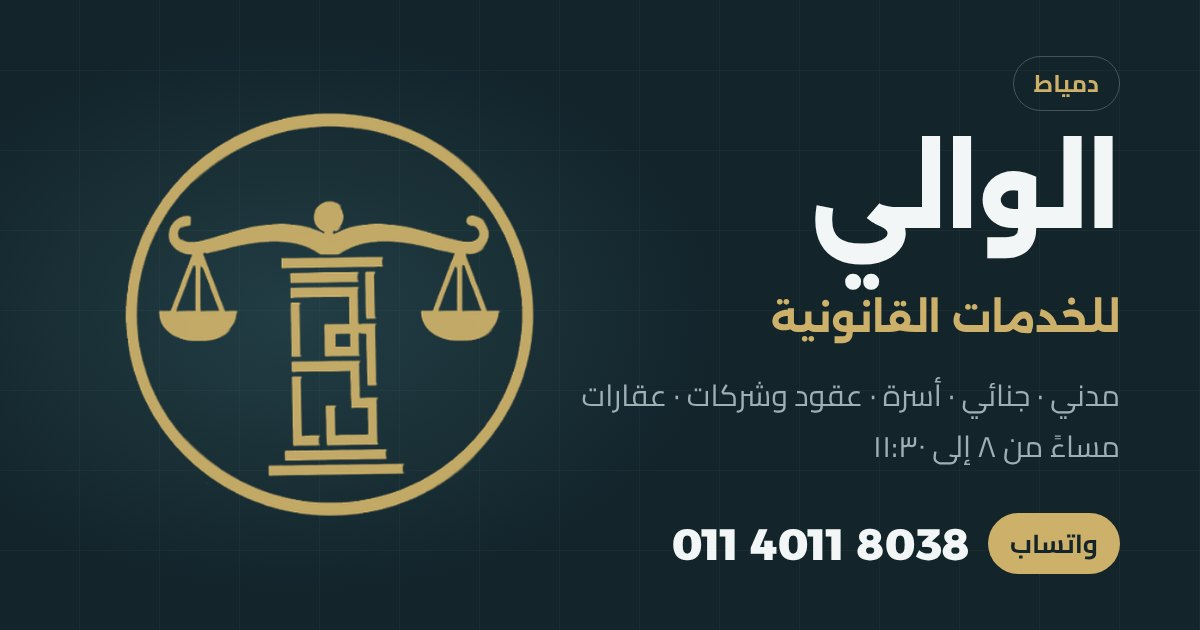
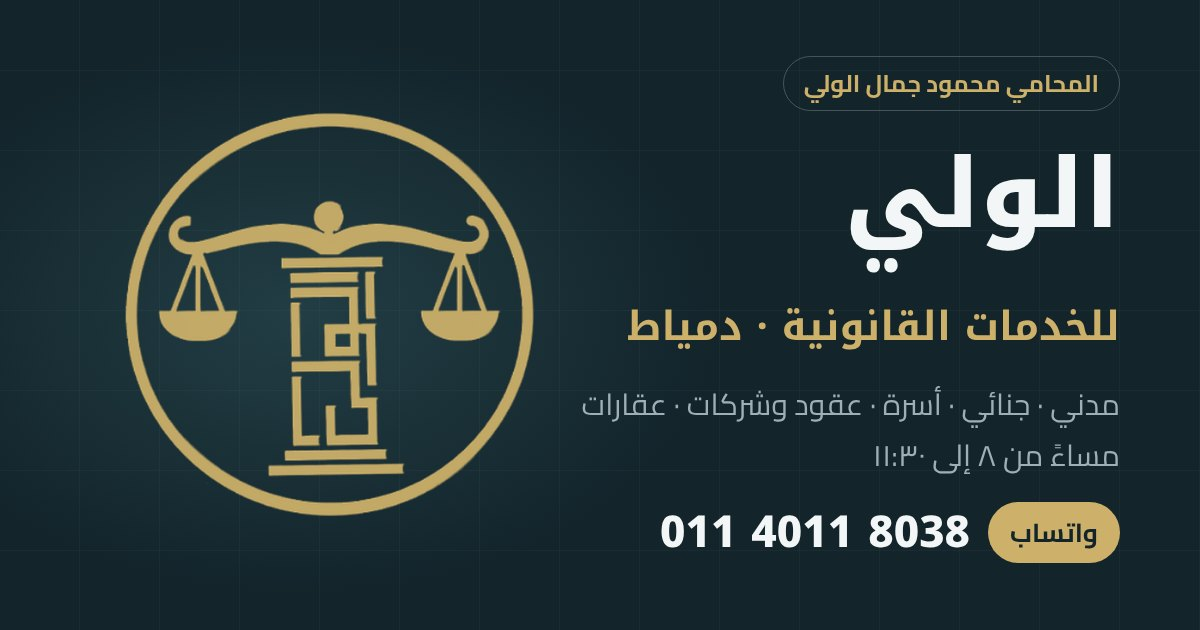
Correct office name to الولي, add the lawyer's name, change heading font
Use Noto Kufi Arabic for headings, add محمود جمال الولي to the hero,
about, footer, FAQ, structured data (Person) and llms.txt, and regenerate
the share image.

Claude-Session: https://claude.ai/code/session_015ErQkvhXxJamDgkeYBpLrU

diff --git a/index.html b/index.html
@@ -3,13 +3,13 @@
 <head>
   <meta charset="utf-8">
   <meta name="viewport" content="width=device-width, initial-scale=1">
-  <title>الوالي للخدمات القانونية | محامي في دمياط</title>
-  <meta name="description" content="الوالي للخدمات القانونية في دمياط (الشعراء بجانب مدرسة سعد الأسمر): قضايا مدنية وجنائية وأسرة وعقود وشركات وعقارات. الاستقبال مساءً من ٨ إلى ١١:٣٠. تواصل واتساب 01140118038.">
+  <title>المحامي محمود جمال الولي | الولي للخدمات القانونية في دمياط</title>
+  <meta name="description" content="المحامي محمود جمال الولي، الولي للخدمات القانونية في دمياط (الشعراء بجانب مدرسة سعد الأسمر): قضايا مدنية وجنائية وأسرة وعقود وشركات وعقارات. الاستقبال مساءً من ٨ إلى ١١:٣٠. تواصل واتساب 01140118038.">
   <meta name="robots" content="index, follow, max-image-preview:large, max-snippet:-1, max-video-preview:-1">
   <link rel="canonical" href="https://elwali.aldiwan.io/">
   <link rel="alternate" hreflang="ar-EG" href="https://elwali.aldiwan.io/">
   <link rel="alternate" hreflang="x-default" href="https://elwali.aldiwan.io/">
-  <meta name="author" content="الوالي للخدمات القانونية">
+  <meta name="author" content="المحامي محمود جمال الولي">
   <meta name="geo.region" content="EG-DT">
   <meta name="geo.placename" content="دمياط">
   <meta name="geo.position" content="31.4026702;31.7944225">
@@ -17,16 +17,16 @@
   <meta name="theme-color" content="#13242b">
   <meta property="og:type" content="website">
   <meta property="og:locale" content="ar_EG">
-  <meta property="og:site_name" content="الوالي للخدمات القانونية">
+  <meta property="og:site_name" content="الولي للخدمات القانونية">
   <meta property="og:url" content="https://elwali.aldiwan.io/">
-  <meta property="og:title" content="الوالي للخدمات القانونية | محامي في دمياط">
+  <meta property="og:title" content="المحامي محمود جمال الولي | الولي للخدمات القانونية في دمياط">
   <meta property="og:description" content="قضايا مدنية وجنائية وأسرة وعقود وشركات وعقارات. الاستقبال مساءً من ٨ إلى ١١:٣٠. دمياط.">
   <meta property="og:image" content="https://elwali.aldiwan.io/assets/og-image.jpg">
   <meta property="og:image:width" content="1200">
   <meta property="og:image:height" content="630">
-  <meta property="og:image:alt" content="الوالي للخدمات القانونية، مكتب محاماة في دمياط">
+  <meta property="og:image:alt" content="الولي للخدمات القانونية، مكتب محاماة في دمياط">
   <meta name="twitter:card" content="summary_large_image">
-  <meta name="twitter:title" content="الوالي للخدمات القانونية | محامي في دمياط">
+  <meta name="twitter:title" content="المحامي محمود جمال الولي | الولي للخدمات القانونية في دمياط">
   <meta name="twitter:description" content="قضايا مدنية وجنائية وأسرة وعقود وشركات وعقارات. الاستقبال مساءً من ٨ إلى ١١:٣٠.">
   <meta name="twitter:image" content="https://elwali.aldiwan.io/assets/og-image.jpg">
   <link rel="icon" type="image/png" href="assets/favicon.png">
@@ -34,7 +34,7 @@
 
   <link rel="preconnect" href="https://fonts.googleapis.com">
   <link rel="preconnect" href="https://fonts.gstatic.com" crossorigin>
-  <link href="https://fonts.googleapis.com/css2?family=Alexandria:wght@500;700;800&family=Cairo:wght@400;600;700&display=swap" rel="stylesheet">
+  <link href="https://fonts.googleapis.com/css2?family=Noto+Kufi+Arabic:wght@500;700;800&family=Cairo:wght@400;600;700&display=swap" rel="stylesheet">
   <link rel="stylesheet" href="css/style.css">
 
   <script type="application/ld+json">
@@ -44,8 +44,10 @@
       {
         "@type": ["LegalService", "Attorney"],
         "@id": "https://elwali.aldiwan.io/#office",
-        "name": "الوالي للخدمات القانونية",
-        "alternateName": ["Elwali for legal services", "الوالي للمحاماة"],
+        "name": "الولي للخدمات القانونية",
+        "alternateName": ["Elwali for legal services", "الولي للمحاماة", "مكتب المحامي محمود جمال الولي"],
+        "founder": { "@id": "https://elwali.aldiwan.io/#lawyer" },
+        "employee": { "@id": "https://elwali.aldiwan.io/#lawyer" },
         "url": "https://elwali.aldiwan.io/",
         "logo": "https://elwali.aldiwan.io/assets/logo.png",
         "image": "https://elwali.aldiwan.io/assets/og-image.jpg",
@@ -81,13 +83,26 @@
           ]
         }
       },
-      { "@type": "WebSite", "@id": "https://elwali.aldiwan.io/#website", "url": "https://elwali.aldiwan.io/", "name": "الوالي للخدمات القانونية", "inLanguage": "ar", "publisher": { "@id": "https://elwali.aldiwan.io/#office" } },
-      { "@type": "WebPage", "@id": "https://elwali.aldiwan.io/#webpage", "url": "https://elwali.aldiwan.io/", "name": "الوالي للخدمات القانونية | محامي في دمياط", "inLanguage": "ar", "isPartOf": { "@id": "https://elwali.aldiwan.io/#website" }, "about": { "@id": "https://elwali.aldiwan.io/#office" }, "dateModified": "2026-10-13" },
+      {
+        "@type": "Person",
+        "@id": "https://elwali.aldiwan.io/#lawyer",
+        "name": "محمود جمال الولي",
+        "alternateName": ["المحامي محمود جمال الولي", "Mahmoud Gamal Elwali"],
+        "jobTitle": "محامٍ",
+        "worksFor": { "@id": "https://elwali.aldiwan.io/#office" },
+        "workLocation": { "@type": "Place", "name": "دمياط" },
+        "knowsAbout": ["القضايا المدنية", "القضايا الجنائية", "الأحوال الشخصية وقضايا الأسرة", "العقود وتأسيس الشركات", "القضايا العقارية والإيجارات"],
+        "url": "https://elwali.aldiwan.io/",
+        "image": "https://elwali.aldiwan.io/assets/hero.webp"
+      },
+      { "@type": "WebSite", "@id": "https://elwali.aldiwan.io/#website", "url": "https://elwali.aldiwan.io/", "name": "الولي للخدمات القانونية", "inLanguage": "ar", "publisher": { "@id": "https://elwali.aldiwan.io/#office" } },
+      { "@type": "WebPage", "@id": "https://elwali.aldiwan.io/#webpage", "url": "https://elwali.aldiwan.io/", "name": "الولي للخدمات القانونية | محامي في دمياط", "inLanguage": "ar", "isPartOf": { "@id": "https://elwali.aldiwan.io/#website" }, "about": { "@id": "https://elwali.aldiwan.io/#office" }, "dateModified": "2026-10-13" },
       {
         "@type": "FAQPage",
         "@id": "https://elwali.aldiwan.io/#faq",
         "mainEntity": [
-          { "@type": "Question", "name": "أين يقع مكتب الوالي للخدمات القانونية؟", "acceptedAnswer": { "@type": "Answer", "text": "في الشعراء بجانب مدرسة سعد الأسمر، عبده سعد، قسم دمياط، محافظة دمياط. يمكنك فتح الموقع على الخريطة من قسم \"تواصل معنا\"." } },
+          { "@type": "Question", "name": "من هو المحامي محمود جمال الولي؟", "acceptedAnswer": { "@type": "Answer", "text": "محامٍ يعمل من مكتب الولي للخدمات القانونية في دمياط، ويتولى القضايا المدنية والجنائية والأحوال الشخصية والعقود والشركات والقضايا العقارية." } },
+          { "@type": "Question", "name": "أين يقع مكتب الولي للخدمات القانونية؟", "acceptedAnswer": { "@type": "Answer", "text": "في الشعراء بجانب مدرسة سعد الأسمر، عبده سعد، قسم دمياط، محافظة دمياط. يمكنك فتح الموقع على الخريطة من قسم \"تواصل معنا\"." } },
           { "@type": "Question", "name": "ما مواعيد العمل؟", "acceptedAnswer": { "@type": "Answer", "text": "الاستقبال مساءً من ٨:٠٠ إلى ١١:٣٠ أيام السبت والأحد والإثنين والثلاثاء والأربعاء. والمكتب مغلق يومي الخميس والجمعة." } },
           { "@type": "Question", "name": "كيف أحجز استشارة قانونية؟", "acceptedAnswer": { "@type": "Answer", "text": "أرسل رسالة واتساب على الرقم 01140118038 تشرح فيها موقفك باختصار، أو اتصل بالمكتب في مواعيد العمل، وسنحدد معك موعد الاستشارة." } },
           { "@type": "Question", "name": "ما المجالات التي يتناولها المكتب؟", "acceptedAnswer": { "@type": "Answer", "text": "القضايا المدنية، والقضايا الجنائية، والأحوال الشخصية وقضايا الأسرة، وصياغة العقود وتأسيس الشركات، والقضايا العقارية والإيجارات." } },
@@ -104,9 +119,9 @@
 <div class="frame" id="top">
 
   <header class="site-header">
-    <a class="brand" href="#top" aria-label="الوالي للخدمات القانونية">
-      <img src="assets/logo.png" alt="شعار الوالي للخدمات القانونية" width="48" height="48">
-      <span class="brand-text"><strong>الوالي</strong><small>للخدمات القانونية</small></span>
+    <a class="brand" href="#top" aria-label="الولي للخدمات القانونية">
+      <img src="assets/logo.png" alt="شعار الولي للخدمات القانونية" width="48" height="48">
+      <span class="brand-text"><strong>الولي</strong><small>للخدمات القانونية</small></span>
     </a>
     <nav class="nav" id="nav" aria-label="القائمة الرئيسية">
       <a href="#about">من نحن</a>
@@ -128,13 +143,14 @@
 
     <div class="hero-grid">
       <div class="hero-copy">
-        <p class="badge"><svg viewBox="0 0 24 24" aria-hidden="true"><path d="M12 3v18M5 7h14M5 7l-3 7a3.5 3.5 0 0 0 6 0L5 7Zm14 0-3 7a3.5 3.5 0 0 0 6 0l-3-7ZM8 21h8"/></svg>الوالي للخدمات القانونية · دمياط</p>
+        <p class="badge"><svg viewBox="0 0 24 24" aria-hidden="true"><path d="M12 3v18M5 7h14M5 7l-3 7a3.5 3.5 0 0 0 6 0L5 7Zm14 0-3 7a3.5 3.5 0 0 0 6 0l-3-7ZM8 21h8"/></svg>محامٍ في دمياط</p>
         <h1>حلولك القانونية<br>في أيدٍ <em>أمينة</em></h1>
+        <p class="lawyer-name"><b>المحامي محمود جمال الولي</b><span>الولي للخدمات القانونية · دمياط</span></p>
         <p class="lead">قضايا مدنية وجنائية وأسرة وعقود وشركات وعقارات. نستمع لموقفك، ونشرح لك الصورة القانونية بوضوح، ثم نتابع قضيتك خطوة بخطوة.</p>
       </div>
 
       <div class="hero-portrait">
-        <img id="heroPhoto" src="assets/hero.webp" alt="المحامي في مكتب الوالي للخدمات القانونية" width="666" height="1024" hidden fetchpriority="high">
+        <img id="heroPhoto" src="assets/hero.webp" alt="المحامي محمود جمال الولي، الولي للخدمات القانونية في دمياط" width="666" height="1024" hidden fetchpriority="high">
       </div>
 
       <aside class="hours-card" aria-label="مواعيد الاستقبال">
@@ -171,7 +187,7 @@
         </a>
       </div>
       <div class="about-body">
-        <p>في الوالي للخدمات القانونية نضع العميل في المقدمة. نستمع جيدًا لموقفك، ونراجع المستندات والوقائع، ثم نشرح لك الخيارات المتاحة بوضوح وصراحة قبل أي خطوة.</p>
+        <p>في الولي للخدمات القانونية، برعاية المحامي محمود جمال الولي، نضع العميل في المقدمة. نستمع جيدًا لموقفك، ونراجع المستندات والوقائع، ثم نشرح لك الخيارات المتاحة بوضوح وصراحة قبل أي خطوة.</p>
         <p>نؤمن بأن القضية تستحق أكثر من نصيحة عامة، فنتعامل مع كل ملف باهتمام ودقة، ونوافيك بكل جديد، ونحفظ سرية كل ما تطلعنا عليه.</p>
         <ul class="values">
           <li><b>وضوح</b><span>نشرح لك موقفك القانوني بلا تعقيد.</span></li>
@@ -291,7 +307,11 @@
       </div>
       <div class="faq">
         <details open>
-          <summary>أين يقع مكتب الوالي للخدمات القانونية؟</summary>
+          <summary>من هو المحامي محمود جمال الولي؟</summary>
+          <p>محامٍ يعمل من مكتب الولي للخدمات القانونية في دمياط، ويتولى القضايا المدنية والجنائية والأحوال الشخصية والعقود والشركات والقضايا العقارية.</p>
+        </details>
+        <details>
+          <summary>أين يقع مكتب الولي للخدمات القانونية؟</summary>
           <p>في الشعراء بجانب مدرسة سعد الأسمر، عبده سعد، قسم دمياط، محافظة دمياط. يمكنك فتح الموقع على الخريطة من قسم "تواصل معنا".</p>
         </details>
         <details>
@@ -378,7 +398,7 @@
     <div class="foot-grid">
       <div class="foot-brand">
         <img src="assets/logo.png" alt="" width="64" height="64" loading="lazy">
-        <p><strong>الوالي للخدمات القانونية</strong><br>الشعراء بجانب مدرسة سعد الأسمر، دمياط</p>
+        <p><strong>المحامي محمود جمال الولي</strong><br>الولي للخدمات القانونية<br>الشعراء بجانب مدرسة سعد الأسمر، دمياط</p>
       </div>
       <nav class="foot-links" aria-label="روابط سريعة">
         <b>روابط سريعة</b>
@@ -394,8 +414,8 @@
       </address>
     </div>
     <p class="disclaimer">المحتوى المعروض في هذه الصفحة لأغراض التعريف والمعلومات العامة فقط، ولا يُعد استشارة قانونية ولا يُنشئ علاقة وكالة بين المحامي والزائر. لا نضمن نتائج معينة للقضايا.</p>
-    <p class="copy">© <span id="year">2026</span> الوالي للخدمات القانونية. جميع الحقوق محفوظة.</p>
-    <div class="wordmark" aria-hidden="true">الوالي</div>
+    <p class="copy">© <span id="year">2026</span> الولي للخدمات القانونية. جميع الحقوق محفوظة.</p>
+    <div class="wordmark" aria-hidden="true">الولي</div>
   </div>
 </footer>
 

diff --git a/css/style.css b/css/style.css
@@ -14,7 +14,7 @@
   --muted: #9fb0b5;
   --muted-dark: #566a70;
   --font: "Cairo", "Tajawal", system-ui, -apple-system, "Segoe UI", sans-serif;
-  --display: "Alexandria", "Cairo", system-ui, sans-serif;
+  --display: "Noto Kufi Arabic", "Cairo", system-ui, sans-serif;
   --radius: 28px;
 }
 
@@ -94,6 +94,9 @@ em { font-style: normal; color: var(--gold); }
   background: rgba(255, 255, 255, .07); border: 1px solid var(--line); font-size: .82rem; font-weight: 700; color: var(--text);
 }
 .badge svg { width: 16px; height: 16px; color: var(--gold); }
+.lawyer-name { display: grid; gap: 0; margin: 0 0 14px; line-height: 1.6; }
+.lawyer-name b { font: 700 1.2rem/1.5 var(--display); color: var(--gold); }
+.lawyer-name span { font-size: .85rem; color: var(--muted); }
 .hero h1 { font-size: clamp(2.2rem, 9vw, 3.4rem); font-weight: 800; line-height: 1.35; margin-bottom: .4em; color: var(--white); }
 .lead { color: var(--muted); max-width: 30em; }
 .hero-portrait { position: relative; min-height: 0; display: flex; justify-content: center; align-items: flex-end; }

diff --git a/README.md b/README.md
@@ -1,4 +1,4 @@
-# الوالي للخدمات القانونية
+# الولي للخدمات القانونية
 
 Static Arabic (RTL) landing page. Plain HTML, CSS and JS, no build step.
 
